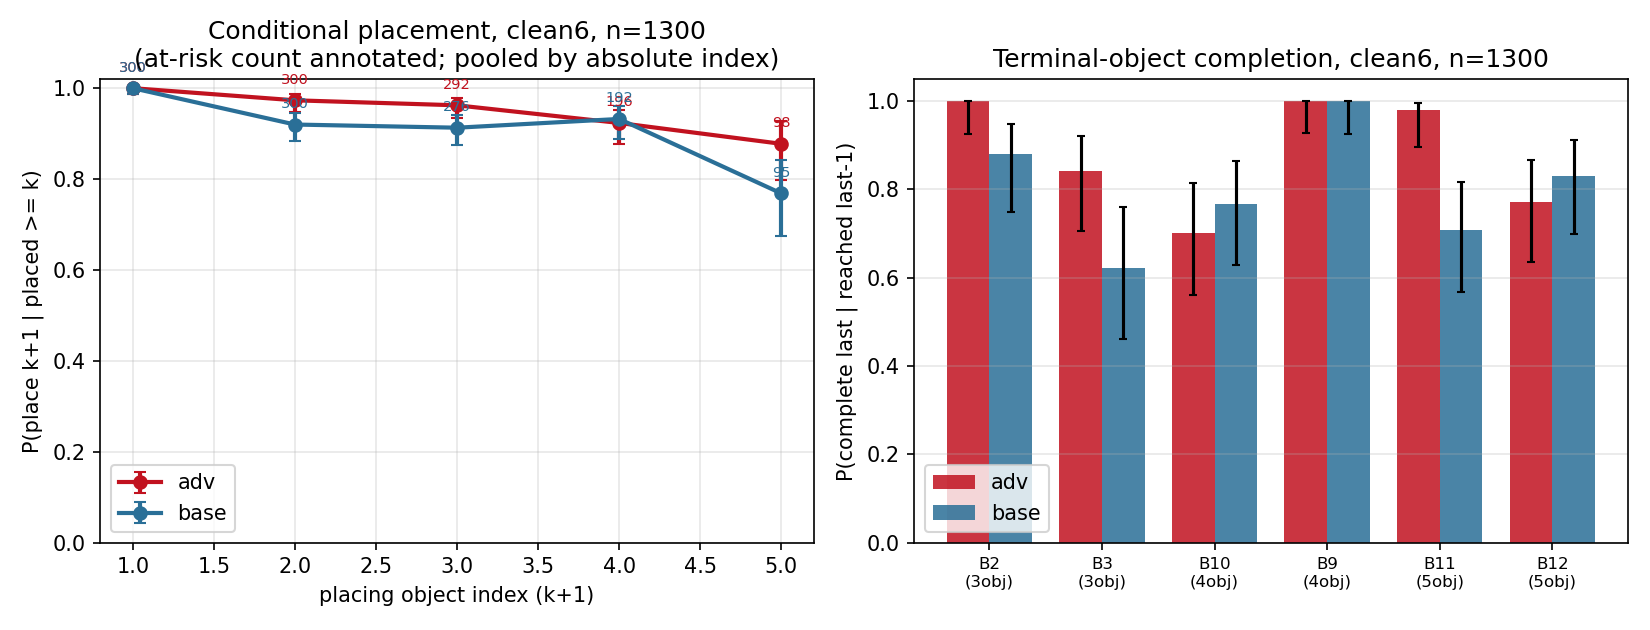
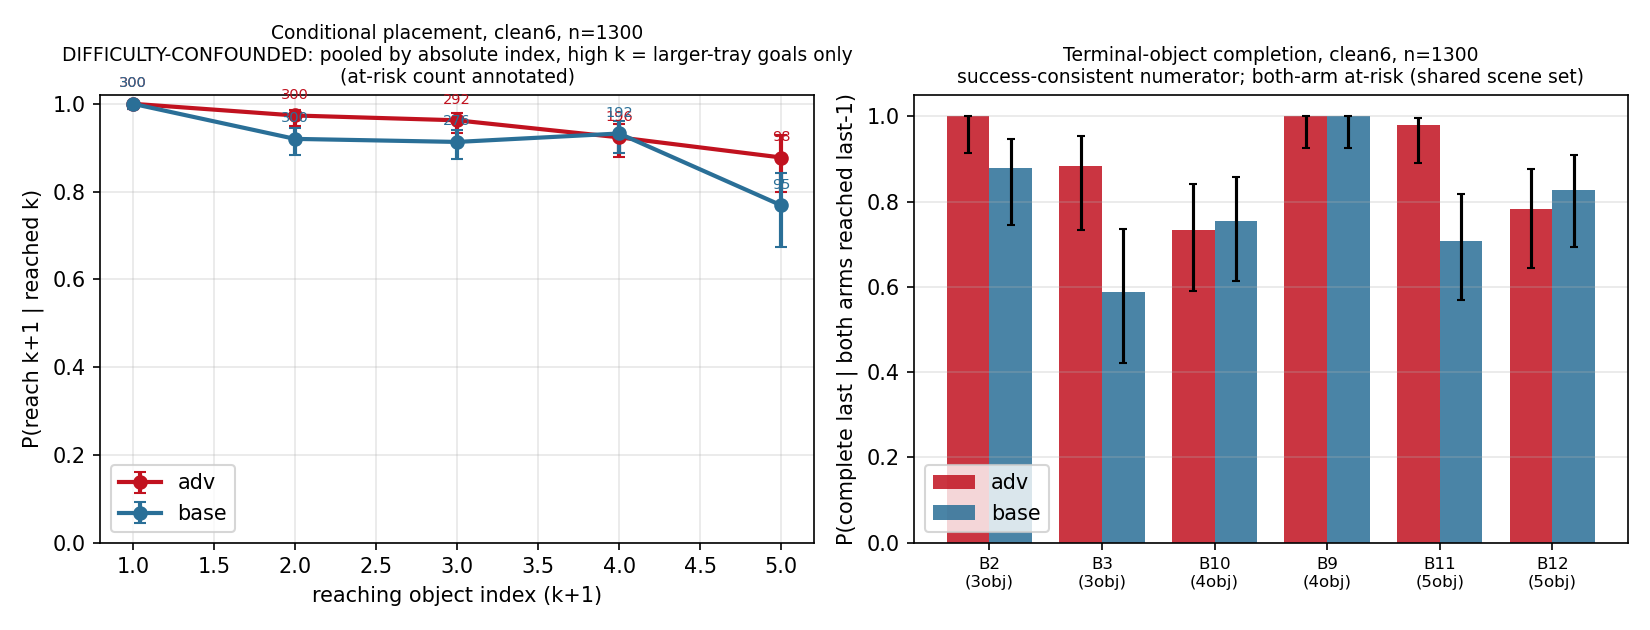
Update Project-updates

diff --git a/Project-updates/2026-07-06-june12-redo-thread-overview/index.html b/Project-updates/2026-07-06-june12-redo-thread-overview/index.html
@@ -62,7 +62,7 @@
   <p class="msg" id="msg" hidden></p>
 </main>
 
[2 lines of base64/hex data omitted]
 <script>
 (function () {
   var P = JSON.parse(document.getElementById('payload').textContent);

diff --git a/Project-updates/2026-07-07-litreview-directions/index.html b/Project-updates/2026-07-07-litreview-directions/index.html
@@ -62,7 +62,7 @@
   <p class="msg" id="msg" hidden></p>
 </main>
 
[2 lines of base64/hex data omitted]
 <script>
 (function () {
   var P = JSON.parse(document.getElementById('payload').textContent);

diff --git a/Project-updates/2026-07-11-online-fbc-complete-thread/artifacts/expectations_board_online_fbc.html b/Project-updates/2026-07-11-online-fbc-complete-thread/artifacts/expectations_board_online_fbc.html
@@ -62,7 +62,7 @@
   <p class="msg" id="msg" hidden></p>
 </main>
 
[2 lines of base64/hex data omitted]
 <script>
 (function () {
   var P = JSON.parse(document.getElementById('payload').textContent);

diff --git a/Project-updates/2026-07-11-online-fbc-complete-thread/artifacts/findings_report_online_fbc.html b/Project-updates/2026-07-11-online-fbc-complete-thread/artifacts/findings_report_online_fbc.html
@@ -62,7 +62,7 @@
   <p class="msg" id="msg" hidden></p>
 </main>
 
[2 lines of base64/hex data omitted]
 <script>
 (function () {
   var P = JSON.parse(document.getElementById('payload').textContent);

diff --git a/Project-updates/2026-07-11-online-fbc-complete-thread/artifacts/online_fbc_results_live.html b/Project-updates/2026-07-11-online-fbc-complete-thread/artifacts/online_fbc_results_live.html
@@ -62,7 +62,7 @@
   <p class="msg" id="msg" hidden></p>
 </main>
 
[2 lines of base64/hex data omitted]
 <script>
 (function () {
   var P = JSON.parse(document.getElementById('payload').textContent);

diff --git a/Project-updates/2026-07-11-online-fbc-protocol-v2/index.html b/Project-updates/2026-07-11-online-fbc-protocol-v2/index.html
@@ -62,7 +62,7 @@
   <p class="msg" id="msg" hidden></p>
 </main>
 
[2 lines of base64/hex data omitted]
 <script>
 (function () {
   var P = JSON.parse(document.getElementById('payload').textContent);

diff --git a/Project-updates/2026-07-11-online-fbc-protocol-v3/index.html b/Project-updates/2026-07-11-online-fbc-protocol-v3/index.html
@@ -62,7 +62,7 @@
   <p class="msg" id="msg" hidden></p>
 </main>
 
[2 lines of base64/hex data omitted]
 <script>
 (function () {
   var P = JSON.parse(document.getElementById('payload').textContent);

diff --git a/Project-updates/2026-07-14-goal-taxonomy-session-report-a-two-axis-division-of-the-18-held-out-packing-goals/index.html b/Project-updates/2026-07-14-goal-taxonomy-session-report-a-two-axis-division-of-the-18-held-out-packing-goals/index.html
@@ -62,7 +62,7 @@
   <p class="msg" id="msg" hidden></p>
 </main>
 
[2 lines of base64/hex data omitted]
 <script>
 (function () {
   var P = JSON.parse(document.getElementById('payload').textContent);

diff --git a/Project-updates/2026-07-14-ofbc1-consolidation-report/index.html b/Project-updates/2026-07-14-ofbc1-consolidation-report/index.html
@@ -62,7 +62,7 @@
   <p class="msg" id="msg" hidden></p>
 </main>
 
[2 lines of base64/hex data omitted]
 <script>
 (function () {
   var P = JSON.parse(document.getElementById('payload').textContent);

diff --git a/Project-updates/index.html b/Project-updates/index.html
@@ -62,7 +62,7 @@
   <p class="msg" id="msg" hidden></p>
 </main>
 
[2 lines of base64/hex data omitted]
 <script>
 (function () {
   var P = JSON.parse(document.getElementById('payload').textContent);

diff --git a/Project-updates/templates/artifact-template.html b/Project-updates/templates/artifact-template.html
@@ -62,7 +62,7 @@
   <p class="msg" id="msg" hidden></p>
 </main>
 
[2 lines of base64/hex data omitted]
 <script>
 (function () {
   var P = JSON.parse(document.getElementById('payload').textContent);

diff --git a/Project-updates/templates/project-page-template.html b/Project-updates/templates/project-page-template.html
@@ -62,7 +62,7 @@
   <p class="msg" id="msg" hidden></p>
 </main>
 
[2 lines of base64/hex data omitted]
 <script>
 (function () {
   var P = JSON.parse(document.getElementById('payload').textContent);